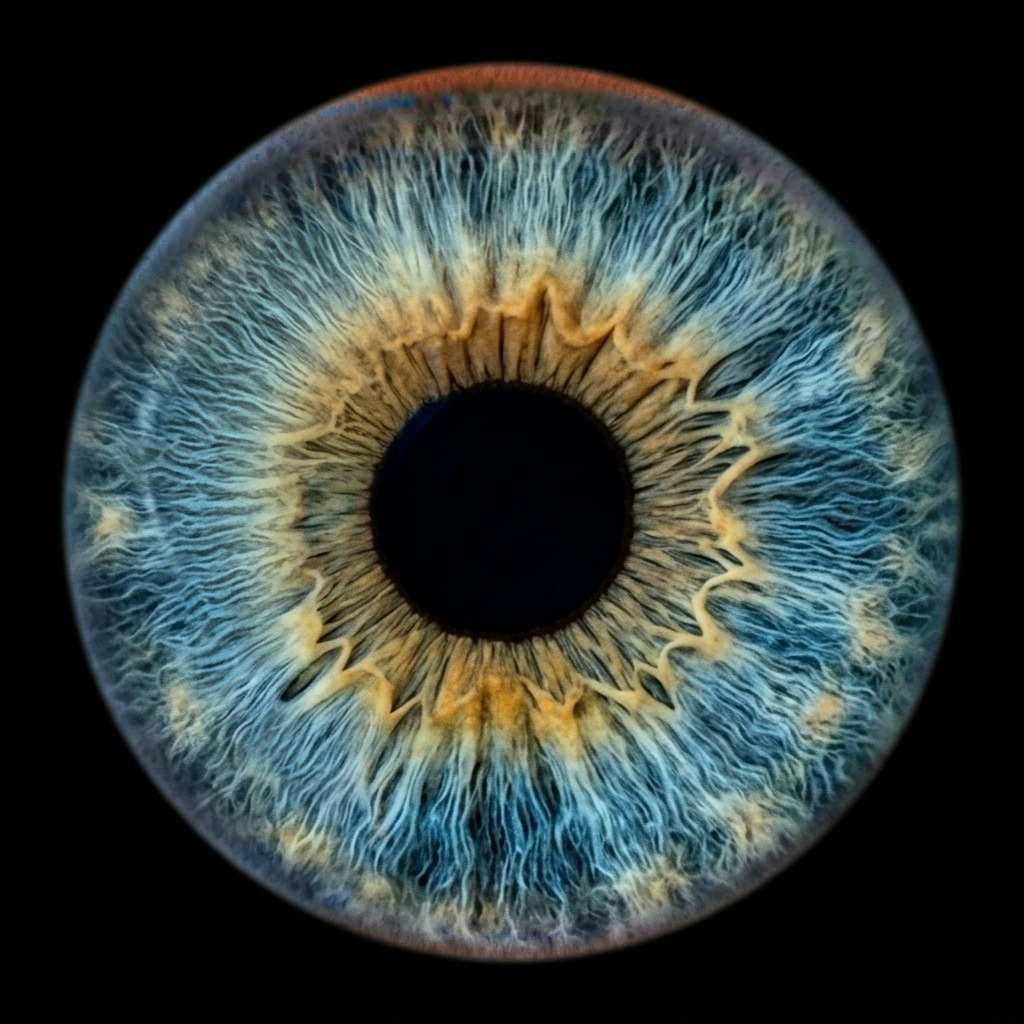
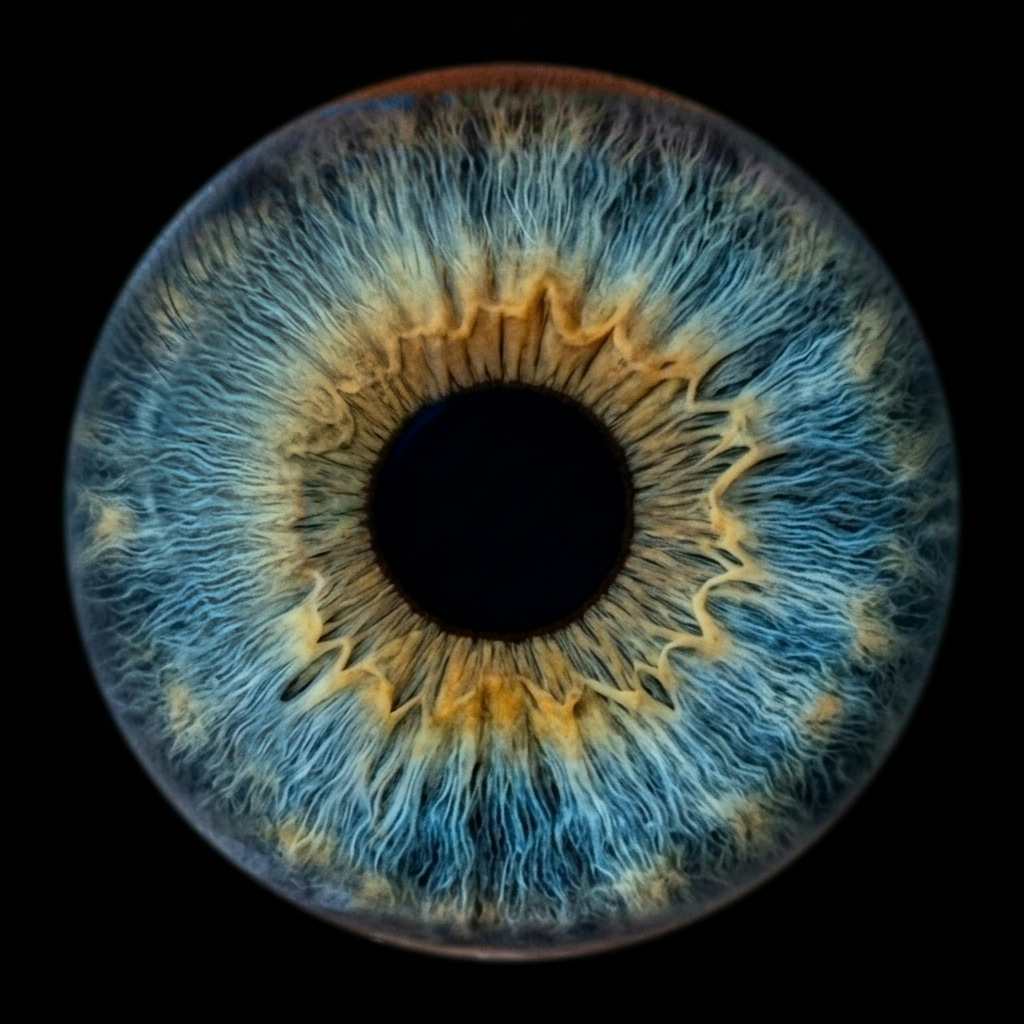
fix(sample): the AI-generated sample eye passes the restoration gate, so /try no longer says "Your eye needs a retake" for a picture the visitor did not take
The page sends sample_eye_blue_restored.jpg to /api/enhance {sample: true}. Its profile passed the lid rule and FAILED the fill rule (fill_hard_edges: n_step 127
of 180 sectors against the limit of 120, the fibres of a very detailed iris read as a hard edge inside it), so the Universe tile was held back (grey) and the retake
card was raised for the demo eye (QA of 2026-10-20). The sample is never ordered.

The fix is a better sample, not an exemption: scripts/bake_sample.py runs the stored client crop through the current chain (the deglare step, then the first
restoration of api/enhance.py _draw, ONE image-model call, about 0.07 USD, the second restoration forced off) and prints both rules. The one draw made on 2026-10-20
passes BOTH: lid 0 / 0 / 10 outliers / max deviation 15.1, fill run18 2 / n_step 95 / catch 0, severity 0.0, fidelity 0.917. It replaces the shipped file
(269,375 bytes, was 294,739); api/enhance.py SAMPLE_SHA256 is its hash (4c4429b2...); the gate, its thresholds and the sample route are unchanged and there is no
exemption by identity: the sample is measured by the very function every eye is.

Checks (each fails on the old file): v3gate +4 (the profile the page is told for the sample posted as the page posts it passes both rules, in its seals too; with room
to spare; the sample route accepts only the shipped file, a failing eye, the crop or a file with one byte changed are refused; an ordinary failing eye still fails both
[…]

diff --git a/suites/ts/sample_eye.test.ts b/suites/ts/sample_eye.test.ts
@@ -1,0 +1,34 @@
+// The AI-generated sample eye of /try and the picker (QA of 2026-10-20): the page showed "Your eye needs a retake" and a greyed Universe tile for the demo eye, a picture
+// the visitor did not take, because the first restoration file of the sample failed the fill rule of the restoration gate (fill_hard_edges). The two answers below are the
+// REAL answers of the server's engine for the two files (api/_lib/catalogue.py tile_list and the eye's profile, run on this machine for the file shipped before and the
+// file shipped now; the first one is kept here as the failing eye the picker must still handle): the picker's own functions turn them into what the visitor sees.
+import { retakeView, tileState, type ServerEye, type ServerTile } from '../../src/try/picker';
+
+type Row = [string, boolean, string?];
+interface Answer { pick: string | null; reason: string | null; eyes: ServerEye[]; tiles: ServerTile[] }
+
+// the shipped sample before 2026-10-20 (sha256 7e681ceca2195512...): lid rule ok, fill rule failed (fill_hard_edges, 127 sectors of 180 against the limit of 120)
+const OLD: Answer = {"pick":null,"reason":null,"eyes":[{"eye":1,"eye_id":"7e681ceca2195512","cls":"own","pupil":"round","gate":{"lid":true,"fill":false},"why":["fill_hard_edges"]}],"tiles":[{"id":"solo.powder","name":"Powder Burst","slug":"powder-burst","group":"solo","legacy":0,"stage":"preview","available":true,"why":null,"layouts":["single"],"eyes":1,"price_class":"art","looks":{},"gate":"advisory","rule":"lid","pick":false},{"id":"solo.universe","name":"Universe","slug":"universe","group":"solo","legacy":0,"stage":"preview","available":false,"why":"gate","layouts":["single"],"eyes":1,"price_class":"art","looks":{"echo":"preview","vortex":"preview"},"gate":"hard","rule":"fill","pick":false},{"id":"solo.splash","name":"Splash","slug":"splash","group":"solo","legacy":0,"stage":"preview","available":true,"why":null,"layouts":["single"],"eyes":1,"price_class":"art","looks":{},"gate":"advisory","rule":"lid","pick":false},{"id":"solo.gold","name":"Celestial Gold","slug":"celestial-gold","group":"solo","legacy":0,"stage":"preview","available":true,"why":null,"layouts":["single"],"eyes":1,"price_class":"art","looks":{},"gate":"hard","rule":"lid","pick":false},{"id":"solo.radiance","name":"Radiance","slug":"radiance","group":"solo","legacy":0,"stage":"preview","available":true,"why":null,"layouts":["single"],"eyes":1,"price_class":"art","looks":{},"gate":"advisory","rule":"lid","pick":false},{"id":"solo.clean","name":"Clean Iris","slug":"clean-iris","group":"solo","legacy":0,"stage":"preview","available":true,"why":null,"layouts":["single"],"eyes":1,"price_class":"black","looks":{},"gate":"hard","rule":"lid","pick":false}]};
+// the shipped sample now (sha256 4c4429b21f0d7d49...): both rules ok (fill n_step 95)
+const NOW: Answer = {"pick":null,"reason":null,"eyes":[{"eye":1,"eye_id":"4c4429b21f0d7d49","cls":"own","pupil":"round","gate":{"lid":true,"fill":true},"why":[]}],"tiles":[{"id":"solo.powder","name":"Powder Burst","slug":"powder-burst","group":"solo","legacy":0,"stage":"preview","available":true,"why":null,"layouts":["single"],"eyes":1,"price_class":"art","looks":{},"gate":"advisory","rule":"lid","pick":false},{"id":"solo.universe","name":"Universe","slug":"universe","group":"solo","legacy":0,"stage":"preview","available":true,"why":null,"layouts":["single"],"eyes":1,"price_class":"art","looks":{"echo":"preview","vortex":"preview"},"gate":"hard","rule":"fill","pick":false},{"id":"solo.splash","name":"Splash","slug":"splash","group":"solo","legacy":0,"stage":"preview","available":true,"why":null,"layouts":["single"],"eyes":1,"price_class":"art","looks":{},"gate":"advisory","rule":"lid","pick":false},{"id":"solo.gold","name":"Celestial Gold","slug":"celestial-gold","group":"solo","legacy":0,"stage":"preview","available":true,"why":null,"layouts":["single"],"eyes":1,"price_class":"art","looks":{},"gate":"hard","rule":"lid","pick":false},{"id":"solo.radiance","name":"Radiance","slug":"radiance","group":"solo","legacy":0,"stage":"preview","available":true,"why":null,"layouts":["single"],"eyes":1,"price_class":"art","looks":{},"gate":"advisory","rule":"lid","pick":false},{"id":"solo.clean","name":"Clean Iris","slug":"clean-iris","group":"solo","legacy":0,"stage":"preview","available":true,"why":null,"layouts":["single"],"eyes":1,"price_class":"black","looks":{},"gate":"hard","rule":"lid","pick":false}]};
+
+export async function run(): Promise<Row[]> {
+  const out: Row[] = [];
+  const check = (name: string, ok: boolean, detail = '') => out.push([name, ok, detail]);
+  const view = (a: Answer) => retakeView({ tiles: a.tiles, eyes: a.eyes, selected: a.tiles[0] });
+  const states = (a: Answer) => a.tiles.map((t) => `${t.id}:${tileState(t, a.eyes).kind}`);
+
+  check('the sample eye of today: no retake card for a picture the visitor did not take (retakeView says none), and no tile is held back or greyed (every tile available, none in the gate, reseal or pupil state)',
+    view(NOW) === null && NOW.tiles.every((t) => t.available && t.why === null) && NOW.tiles.every((t) => !['gate', 'reseal', 'pupil'].includes(tileState(t, NOW.eyes).kind)), JSON.stringify(states(NOW)));
+  check('... the eye the server read says so: both rules pass and no reason code', NOW.eyes.length === 1 && NOW.eyes[0].gate.lid === true && NOW.eyes[0].gate.fill === true && NOW.eyes[0].why.length === 0, JSON.stringify(NOW.eyes));
+  check('... and the Universe tile (the one that reads the fill rule) is one of them: available and ready for the demo eye',
+    NOW.tiles.some((t) => t.id === 'solo.universe' && t.rule === 'fill' && t.gate === 'hard') && tileState(NOW.tiles.find((t) => t.id === 'solo.universe')!, NOW.eyes).kind !== 'gate', JSON.stringify(states(NOW)));
+
+  // the failing eye is still handled as before: the file shipped before is exactly such an eye (it fails the fill rule only), so the card and the grey tile are what a visitor's
+  // own eye with that defect gets
+  const rv = view(OLD);
+  check('an eye that fails the fill rule (the first sample file) still raises the retake card for the eye and holds the Universe tile back, and no other tile (the gate is unchanged)',
+    rv !== null && rv.eyes.join() === '1' && rv.holds === true && rv.why === 'fill_hard_edges' && rv.reasons.join() === 'lid'
+    && OLD.tiles.filter((t) => !t.available).map((t) => t.id).join() === 'solo.universe' && tileState(OLD.tiles.find((t) => t.id === 'solo.universe')!, OLD.eyes).kind === 'gate', JSON.stringify([rv, states(OLD)]));
+  return out;
+}

diff --git a/scripts/bake_sample.py b/scripts/bake_sample.py
@@ -1,0 +1,99 @@
+# -*- coding: utf-8 -*-
+"""Bake the restoration of the sample eye again, through the current chain, on this machine (ONE image-model call).
+
+The page's "Try the sample" button shows public/assets/sample_eye_blue_restored.jpg, the restoration the live engine made of the AI-generated
+sample eye once (2026-09-29: analyze, deglare, enhance artistic) and ships as a file instead of paying for it on every click; /api/enhance
+{sample: true} takes exactly that file (api/enhance.py SAMPLE_SHA256). That file's profile fails the fill rule of the restoration gate
+(fill_hard_edges: 127 of 180 sectors step by more than 25 L* inside the iris, the rule fails at 120), which held the Universe styles for a picture the
+visitor did not take and raised the "Your eye needs a retake" card (QA of 2026-10-20). This script makes a candidate for a better file: the stored
+client crop (public/assets/sample_eye_blue_before.jpg, what the page cut from the sample) goes through the deglare step (no model call: the
+reflection call is off) and the steps of api/enhance.py _draw (the ONE model call, then the locks, the pupil repairs, the clean JPEG q93 and the
+profile), exactly the first restoration /api/enhance makes; the second restoration of a failed lid rule is not made (SNAPEYES_RETRY2 is forced off
+here), so one run is one call (about 0.07 USD). It prints the gate of the candidate and writes the candidate to --out; it changes nothing else.
+
+    SNAPEYES_DEV_KEYFILE=1 python scripts/bake_sample.py --out <folder> --yes-spend
+
+The key is read by api/_lib/iris.py (GEMINI_API_KEY, or C:\\kuriam\\.gemini-key with SNAPEYES_DEV_KEYFILE=1) and never printed. Without --yes-spend nothing is called.
+After a good candidate (both rules ok, fidelity above the floor, looked at): copy it over the shipped file, put its sha256 into api/enhance.py SAMPLE_SHA256, and
+run the suites (suites/README.md)."""
+import argparse, base64, hashlib, json, os, sys, time
+
+os.environ["SNAPEYES_RETRY2"] = "off"                     # read once by api/enhance.py at import: one run is one model call
+os.environ.setdefault("SNAPEYES_TICKET_SECRET", "bake-sample-local")   # the tickets of this script's own two calls, never a deployment's
+ROOT = os.path.dirname(os.path.dirname(os.path.abspath(__file__)))
+sys.path.insert(0, os.path.join(ROOT, "api"))
+
+import numpy as np
+from PIL import Image
+from _lib import iris as L
+from _lib.styles import eye as EYE
+from _lib.styles import gate as GATE
+import deglare as DEG
+import enhance as ENH
+
+PAD = 1.12
+
+
+def pupil_fraction(crop):
+    """The pupil's radius as a share of the crop's side (what /api/analyze tells deglare): the dark core in the middle of the square."""
+    g = np.asarray(crop.convert("L"), np.float32)
+    s = g.shape[0]
+    c = g[int(s * 0.3):int(s * 0.7), int(s * 0.3):int(s * 0.7)]
+    dark = c < (float(np.percentile(c, 5)) + 22.0)
+    return float(np.sqrt(dark.sum() / np.pi)) / s
+
+
+def main():
+    ap = argparse.ArgumentParser(description=__doc__.split("\n")[0])
+    ap.add_argument("--out", required=True, help="folder for the candidate (sample_restored_candidate.jpg) and its numbers")
+    ap.add_argument("--yes-spend", action="store_true", help="make the ONE image-model call")
+    a = ap.parse_args()
+    before = os.path.join(ROOT, "public", "assets", "sample_eye_blue_before.jpg")
+    crop = Image.open(before).convert("RGB")
+    pr = pupil_fraction(crop)
+    print(f"client crop {crop.size[0]}x{crop.size[1]}, pupil {pr:.3f} of the side")
+    buf = io_bytes(crop)
+    ticket = L.mint_ticket()
+    d = DEG.deglare({"crop": base64.b64encode(buf).decode(), "pad": PAD, "ticket": ticket, "pupil_r": pr, "glare_boxes": []})
+    print(f"deglare: glare {d['glare_pct']}%, lid {d['lid_pct']}%, veil {d['veil_pct']}%, changed {d['changed']}")
+    if not a.yes_spend:
+        print("dry run: no model call (add --yes-spend)")
+        return 0
+    # the steps of api/enhance.py enhance() before the model call
+    c = L.b64_to_pil(d["crop"])
+    s = min(c.size)
+    c = c.crop((0, 0, s, s))
+    if s > L.WORK:
+        c = c.resize((L.WORK, L.WORK), Image.LANCZOS); s = L.WORK
+    r_frac = L.iris_radius_frac(PAD)
+    c = L.mask_disk(c, PAD)
+    source = c
+    if s < L.SR_MAX_SIDE:
+        c = L.sr_x4(c)
+    base = c.resize((L.WORK, L.WORK), Image.LANCZOS)
+    t0 = time.time()
+    draw = ENH._draw("artistic", base, source, r_frac, PAD)             # THE model call
+    print(f"restored in {time.time() - t0:.1f}s, fidelity {draw.fid:.3f} (floor {L.FIDELITY_FLOOR}), fallback {draw.fallback}")
+    prof = EYE.profile_of_bytes(draw.clean, pad=PAD)
+    report = {"sha256": hashlib.sha256(draw.clean).hexdigest(), "bytes": len(draw.clean), "fidelity": round(draw.fid, 3), "fallback": draw.fallback,
+              "cls": prof.cls, "pupil": prof.pupil_cls, "gate": {r: prof.gate(r) for r in GATE.RULES}, "severity": GATE.severity(prof)}
+    os.makedirs(a.out, exist_ok=True)
+    with open(os.path.join(a.out, "sample_restored_candidate.jpg"), "wb") as f:
+        f.write(draw.clean)
+    with open(os.path.join(a.out, "sample_restored_candidate.json"), "w", encoding="utf-8") as f:
+        json.dump(report, f, indent=1)
+    print(json.dumps(report, indent=1))
+    ok = not draw.fallback and all(report["gate"][r]["ok"] for r in GATE.RULES)
+    print("CANDIDATE " + ("PASSES both rules" if ok else "fails a rule or fell back: keep the shipped file"))
+    return 0 if ok else 3
+
+
+def io_bytes(im):
+    import io
+    b = io.BytesIO()
+    im.save(b, "JPEG", quality=95)
+    return b.getvalue()
+
+
+if __name__ == "__main__":
+    sys.exit(main())

diff --git a/scripts/styles_tests/test_gate_seal.py b/scripts/styles_tests/test_gate_seal.py
@@ -691,6 +691,35 @@ out_s2 = ENH.enhance({"sample": True, "image": b64(SAMPLE_RAW), "lang": "en"})
 check("enhance: the sample eye's seals carry its profile too (no model call), measured once per instance",
       len(MODEL) == calls and P.unseal_full(out_s["sealed"])[1]["profile"] is not None and out_s["profile"]["cls"] in EYE.CLASSES
       and P.unseal_full(out_s["sealed"])[1]["profile"].rec == P.unseal_full(out_s2["sealed"])[1]["profile"].rec == EYE.profile_of_bytes(SAMPLE_RAW, memo=True).rec)
+# The demo eye of /try must not meet the gate (QA of 2026-10-20): its first restoration file passed the lid rule and FAILED the fill rule (fill_hard_edges: n_step 127 of 180
+# sectors against the limit of 120, the fibres of a very detailed iris read as a hard edge inside it), which held the Universe style and raised the "Your eye needs a retake"
+# card for a picture the visitor did not take. The file of 2026-10-20 (scripts/bake_sample.py: the same chain, a new draw) passes both rules; the gate itself is unchanged,
+# and there is no exemption by identity: the sample is measured by the very function every eye is measured by.
+prof_s = P.unseal_full(out_s["sealed"])[1]["profile"]
+check("enhance: the AI-generated sample eye, posted as the page posts it ({sample: true} with the shipped restored file), is told to the page as passing BOTH rules of the gate (lid and fill), "
+      "and so are the profile in its sealed copy and in every sealed size /api/compose is sent",
+      out_s["profile"]["gate"] == {"lid": {"ok": True}, "fill": {"ok": True}} and prof_s.gate("lid+fill")["ok"] is True
+      and all(P.unseal_full(v)[1]["profile"].gate("lid+fill")["ok"] is True for v in out_s["sealed_sizes"].values()), out_s["profile"].get("gate"))
+vals_s = prof_s.gate("lid+fill")["values"]
+check("... with room to spare, not on the edge of a rule: the severity is 0, the fill rule's n_step is at least 10 percent under its limit (120) and the lid rule's counts under their limits",
+      GATE.severity(prof_s) == 0.0 and vals_s["fill"]["n_step"] <= 0.9 * GATE.R3_STEP and vals_s["fill"]["run18"] < GATE.R1_RUN and vals_s["lid"]["lid70"] < GATE.LID70_MAX
+      and vals_s["lid"]["lid88"] < GATE.LID88_MAX and vals_s["lid"]["outlier_bins"] < GATE.OUTLIER_MAX, vals_s)
+sample_refused, sample_raw_ok = [], []
+for label, bad in (("an eye that fails both rules", EYES["own_lid"]["raw"]), ("the sample's crop", CROP_RAW), ("the sample with a byte changed", SAMPLE_RAW[:-3] + bytes([SAMPLE_RAW[-3] ^ 1]) + SAMPLE_RAW[-2:])):
+    try:
+        ENH.enhance({"sample": True, "image": b64(bad), "lang": "en"})
+        sample_raw_ok.append(label)
+    except L.ClientError as e:
+        sample_refused.append(str(e))
+check("the sample path is no way round the gate: only the shipped file is accepted ({sample: true} with a failing eye, the crop or the file with one byte changed is refused, \"That is not the sample eye.\"), "
+      "and the file is measured by the same function as every eye (a measurement equal to profile_of_bytes), so no photo and no profile is exempt by what it is",
+      not sample_raw_ok and sample_refused == ["That is not the sample eye."] * 3 and prof_s.rec == EYE.profile_of_bytes(SAMPLE_RAW, pad=1.12).rec, (sample_raw_ok, sample_refused))
+fail_seal = P.protect(EYES["own_lid"]["im"], EYES["own_lid"]["raw"], profile=EYES["own_lid"]["prof"])
+fail_prof = P.unseal_full(fail_seal["sealed_sizes"]["560"])[1]["profile"]
+check("an ordinary failing eye is unchanged: an eye with a lash band across the iris still fails the lid rule and the fill rule, in the reply to the page and in its seals "
+      "(the new sample file changed nothing about the gate)",
+      fail_prof.gate("lid")["ok"] is False and fail_prof.gate("fill")["ok"] is False and fail_prof.public()["gate"]["lid"]["ok"] is False and fail_prof.public()["gate"]["fill"]["ok"] is False
+      and GATE.severity(fail_prof) > 1.0, fail_prof.public()["gate"])
 print(f"   enhance CPU seconds with the stub model: {cpu_enh:.1f} (the profile part is 1 to 2)", flush=True)
 
 # compose with the sealed copies

diff --git a/scripts/styles_tests/test_compose_api.py b/scripts/styles_tests/test_compose_api.py
@@ -429,6 +429,14 @@ for gate2 in (False, True):
         sample_rows[gate2] = (prof_sample.gate("lid")["ok"], CT.why_unavailable("solo.clean", 1, [prof_sample.rec]), CT.why_unavailable("solo.gold", 1, [prof_sample.rec]))
 check("the site's own AI-generated sample eye (the demo of /try) passes the lid rule with the added detectors off and on (as in production), so the demo still shows Clean Iris and Celestial Gold",
       sample_rows == {False: (True, None, None), True: (True, None, None)}, sample_rows)
+# ... and the fill rule (QA of 2026-10-20: the first sample file failed it, fill_hard_edges, which held the Universe style and raised the retake card for a picture the visitor did
+# not take): no live style of one eye is held back for the demo eye, and the tile list the page is given for it has every tile available
+with Show("solo.clean", "solo.powder", "solo.universe", "solo.splash", "solo.gold", stage="live"):
+    sample_held = {sid: CT.why_unavailable(sid, 1, [prof_sample.rec]) for sid in ("solo.clean", "solo.powder", "solo.universe", "solo.splash", "solo.gold")}
+    sample_tiles = CT.tile_list(1, [prof_sample.rec])
+check("... and the fill rule too: no live style of one eye (Clean Iris, Powder Burst, Universe, Splash, Celestial Gold) is held back for the demo eye, and no tile of the list the page is given is unavailable "
+      "(the Universe styles are the ones that read the fill rule)",
+      prof_sample.gate("fill")["ok"] is True and not any(sample_held.values()) and all(t["available"] for t in sample_tiles["tiles"] if t["stage"] == "live"), (sample_held, [(t["id"], t["available"]) for t in sample_tiles["tiles"]]))
 
 # ============================================================================================ 4. a batch
 section("4. a batch: one call, the tile order, a tile alone against the tile in a batch (IE7), the cost guard, the slot, the daily ceiling")

diff --git a/api/enhance.py b/api/enhance.py
@@ -40,9 +40,13 @@ from _lib.styles import eye as EYE   # the eye profile: measured here, sealed, r
 from _lib.styles import gate as GATE   # the gate's severity: how far past its rules an eye is (the second restoration)
 from _lib.styles import reveal as REV   # the Reveal's numbers and its display copy (WP9)
 
-# sha256 of public/assets/sample_eye_blue_restored.jpg, the sample eye's restoration the page ships (made once by the
-# live engine, 2026-09-29). Replace the file and this changes with it; the page then falls back to the studio.
[1 lines of base64/hex data omitted]
+# sha256 of public/assets/sample_eye_blue_restored.jpg, the sample eye's restoration the page ships (made by the live engine on
+# 2026-09-29, made again on 2026-10-20 by scripts/bake_sample.py: the first file passed the lid rule but failed the fill rule of the
+# restoration gate (fill_hard_edges, 127 sectors of 180 against the limit of 120: the fibres of this very detailed iris are read as a hard
+# edge inside it), which held the Universe style and raised the "Your eye needs a retake" card for a picture the visitor did not take. The file
+# of today is a new draw of the same chain on the same crop and passes BOTH rules (lid 0 / 0 / 10 outliers, fill n_step 95). Replace the file and
+# this changes with it (scripts/bake_sample.py prints it); the page then falls back to the studio.
[1 lines of base64/hex data omitted]
 SAMPLE_B64_MAX = 600_000
 
 def _measure(clean, pad, memo=False):
